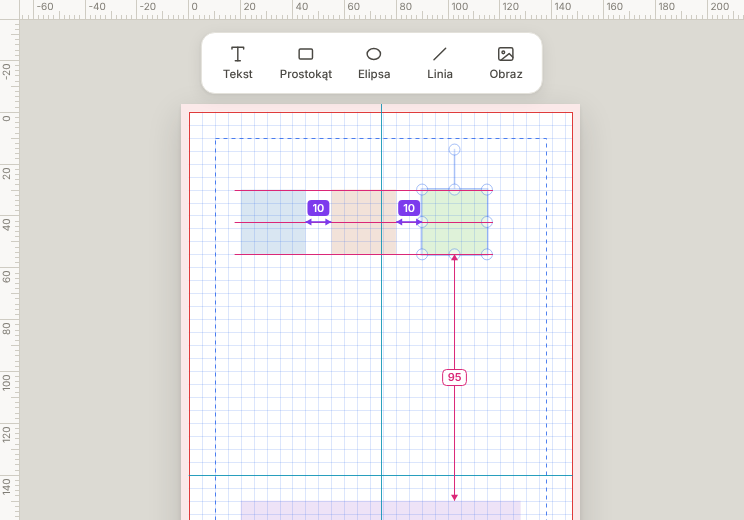
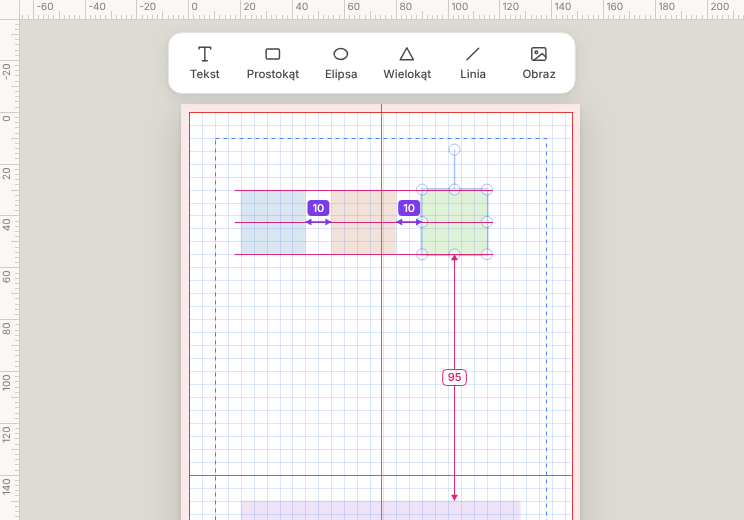
Instrukcja, zrzuty i uzasadnienie po etapie zastrzeżeń
Claude-Session: https://claude.ai/code/session_01RaMJ2Ntz7GzbyxDWHScWWA

Changed region(s): [[0.2164, 0.0615, 0.7728, 0.1846]]

diff --git a/js/instrukcja.js b/js/instrukcja.js
@@ -107,10 +107,11 @@ export const ROZDZIALY = [
     podpis: 'Zaznaczony tekst z uchwytami.',
     punkty: [
       '<b>Tekst</b> – kliknij dwa razy, aby pisać bezpośrednio na stronie, albo wpisz treść w polu <b>Treść</b> po prawej.',
-      '<b>Prostokąt, Elipsa, Linia</b> – kształty do ramek, tła i podziałów.',
+      '<b>Prostokąt, Elipsa, Wielokąt, Linia</b> – kształty do ramek, tła i podziałów. Wielokąt zaczyna jako trójkąt; liczbę boków zmienisz we właściwościach, tam też zrobisz z niego gwiazdę.',
+      'Kształt może mieć <b>przejście kolorów</b> (gradient) zamiast jednego koloru, a każdy element – <b>cień</b> z przesunięciem i rozmyciem w mm.',
       '<b>Obraz</b> – zdjęcie lub grafika z dysku. Możesz też przeciągnąć plik na stronę.',
       'Przeciągnij element, aby go przesunąć. Kółka w rogach zmieniają rozmiar, kółko nad elementem go obraca.',
-      'Przy krawędziach, marginesach i środku strony element „przykleja się” – pokazuje to różowa linia.',
+      'Przy krawędziach, marginesach, środku strony i przy innych elementach element „przykleja się” – pokazuje to różowa linia (więcej w rozdziale <b>Odległości i równe odstępy</b>).',
     ],
   },
   {
@@ -138,7 +139,8 @@ export const ROZDZIALY = [
       '<b>Kolejność</b> przenosi element nad lub pod inne.',
       '<b>Zablokuj położenie i rozmiar</b> chroni element przed przypadkowym przesunięciem.',
       'Ikony nad panelem: <b>kopiuj do schowka</b>, duplikuj, usuń. Skopiowany element wkleisz na innej stronie przyciskiem <b>Wklej</b> we właściwościach strony (albo <kbd>Ctrl</kbd>+<kbd>V</kbd>) – trafi w to samo miejsce.',
-      '<b>Obraz</b>: przycięcie z każdej strony, obrys, odbicie i informacja o rozdzielczości (do druku 300 dpi).',
+      '<b>Obraz</b>: kliknij go dwa razy (albo <b>Kadruj przeciąganiem</b>), żeby wybrać widoczny fragment ramką – <kbd>Enter</kbd> zatwierdza, <kbd>Esc</kbd> anuluje. Do tego przycięcie liczbami, obrys, odbicie i informacja o rozdzielczości (do druku 300 dpi).',
+      'Tytuły części panelu (np. <b>Cień</b>, <b>Ramka tekstu</b>) zwijają je i rozwijają. Zwinięte zostają zwinięte przy kolejnych elementach.',
     ],
   },
   {
@@ -148,7 +150,9 @@ export const ROZDZIALY = [
     podpis: 'Menu strony.',
     punkty: [
       '<b>+ Strona</b> na dole panelu wstawia pustą stronę za bieżącą, w tej samej sekcji.',
-      'Przycisk <b>⋯</b> na miniaturze: zmiana nazwy, duplikowanie, przesuwanie (w obrębie sekcji), usuwanie.',
+      'Przycisk <b>⋯</b> na miniaturze: zmiana nazwy, duplikowanie, przesuwanie, usuwanie.',
+      'Kolejność zmienisz też <b>przeciągając miniaturę</b> myszą; upuszczona w innej sekcji strona przechodzi do niej.',
+      'Usunięcie albo przesunięcie strony cofniesz przyciskiem <b>Cofnij</b> w komunikacie na dole ekranu albo <kbd>Ctrl</kbd>+<kbd>Z</kbd> – dopóki nie zmienisz czegoś na stronie.',
       'Gdy nic nie jest zaznaczone, panel z prawej pokazuje ustawienia strony: nazwę, sekcję, tło i wzorce.',
     ],
   },
@@ -260,6 +264,7 @@ export const ROZDZIALY = [
     podpis: 'Podgląd: rozkładówki obok siebie, z numerami stron z wzorca.',
     punkty: [
       'Otwórz go przyciskiem <b>Podgląd</b> na górnym pasku edytora albo z menu <b>⋯</b> projektu na liście.',
+      '<b>Prezentacja</b> pokazuje jedną stronę albo rozkładówkę naraz na całym ekranie. Strzałki i spacja przewracają strony, <kbd>Esc</kbd> zamyka. Działa także w podglądzie otwartym z linku.',
       'Podgląd pokazuje projekt po powieleniu: każdą stronę serii tyle razy, ile wynika z danych, z jej numerem i podpisem „3 z 31”.',
       'Strony idą po kolei, rozkładówki stoją obok siebie. Przyciski <b>−</b> i <b>+</b> zmieniają powiększenie, kliknięcie liczby dopasowuje do okna.',
       'Kliknięcie strony otwiera ją w edytorze. <b>Edytor</b> albo <kbd>Esc</kbd> wraca do edycji.',
@@ -273,7 +278,7 @@ export const ROZDZIALY = [
     punkty: [
       'W podglądzie kliknij <b>Udostępnij</b>, potem <b>Utwórz link</b>. Aplikacja przygotuje obrazy wszystkich stron – przy dużym projekcie chwilę to potrwa.',
       'Skopiuj link i wyślij go. Osoba z linkiem widzi strony tak jak w podglądzie; nie może nic zmienić i nie ma dostępu do reszty Twoich projektów.',
-      'Link pokazuje projekt <b>w stanie z chwili udostępnienia</b>. Po zmianach okno powie, że link jest nieaktualny – kliknij <b>Aktualizuj</b>. Adres zostaje ten sam.',
+      'Link pokazuje projekt <b>w stanie z chwili udostępnienia</b>. Po zmianach okno powie, że link jest nieaktualny – kliknij <b>Aktualizuj</b>. Adres zostaje ten sam, a wysyłane są tylko strony, które się zmieniły.',
       '<b>Wyłącz link</b> usuwa udostępnione strony; stary adres przestaje działać.',
       'Link jest długi i losowy, więc nie da się go zgadnąć – ale każdy, kto go dostanie, może go przekazać dalej.',
     ],

diff --git a/docs/UZASADNIENIE.md b/docs/UZASADNIENIE.md
@@ -40,8 +40,9 @@ Robi to integracja Supabase z GitHubem (Project Settings → Integrations → Gi
 ### A3. Wszystko w milimetrach ✅
 
 ### A4. Testy w repozytorium ✅
-**Co jest.** `tests/` – 40 testów przeglądarkowych (Playwright + `node --test`): edytor, dotyk, konto, pliki, sekcje, wzorce, rozkładówki, tekst, narzędzia, podgląd, udostępnianie, konflikt zapisu, siatka i odległości, skróty, prowadnice, warstwy, tabele, pola, serie. Supabase zastępuje atrapa w `tests/pomoc.cjs`, więc testy nie dotykają Twojej bazy. Uruchamiają się w GitHub Actions przy każdym pushu (workflow „Testy”).
-**Słabe.** Atrapa udaje Supabase – prawdziwej bazy, reguł RLS i poczty testy nie sprawdzają. Na prawdziwym tablecie nikt tego jeszcze nie przeklikał.
+**Co jest.** `tests/` – 47 testów przeglądarkowych (Playwright + `node --test`): edytor, dotyk, konto, pliki, sekcje, wzorce, rozkładówki, tekst, narzędzia, podgląd, udostępnianie, konflikt zapisu, siatka i odległości, skróty, prowadnice, warstwy, tabele, pola, serie. Supabase zastępuje atrapa w `tests/pomoc.cjs`, więc testy nie dotykają Twojej bazy. Uruchamiają się w GitHub Actions przy każdym pushu (workflow „Testy”).
+**Nowe.** `scripts/proba-na-zywo.cjs` (`npm run proba`) przechodzi opublikowaną aplikację na prawdziwej bazie kontem testowym, które na końcu usuwa: rejestracja, zapis z obrazem, drugie urządzenie, udostępnianie, usunięcie konta.
+**Słabe.** Zwykłe testy używają atrapy Supabase; próbę na prawdziwej bazie trzeba uruchomić ręcznie. Na prawdziwym tablecie nikt tego jeszcze nie przeklikał.
 
 ---
 
@@ -83,14 +84,14 @@ Doszedł wybór układu: pojedyncze strony albo rozkładówki. Nowy projekt dost
 ### C3. Adresy podstron ✅
 `#/projekty`, `#/konto`, `#/p/<id>/s/<strona>`, `#/p/<id>/w/<wzorzec>`, `#/p/<id>/podglad`.
 
-### C4. Podgląd bez edycji ✅ / ⚠
-**Co jest.** Wszystkie strony po kolei jak po przycięciu, rozkładówki obok siebie, powiększanie, kliknięcie strony otwiera ją w edytorze. Strony rysują się dopiero, gdy są widoczne.
-**Słabe.** Nie ma trybu pełnoekranowego z przewracaniem stron.
+### C4. Podgląd bez edycji ✅
+**Co jest.** Wszystkie strony po kolei jak po przycięciu (z powieleniami serii), rozkładówki obok siebie, pojedyncze strony w rzędach, powiększanie, kliknięcie strony otwiera ją w edytorze. Strony rysują się dopiero, gdy są widoczne. **Nowe:** tryb prezentacji – jedna strona albo rozkładówka naraz na całym ekranie, przewracana strzałkami; działa też w podglądzie z linku.
 
 ### C5. Udostępnianie podglądu linkiem ✅ / ⚠
 **Co jest.** „Udostępnij” w podglądzie tworzy link `#/u/<konto>/<projekt>/<losowy kod>`. Aplikacja rysuje wszystkie strony do obrazów JPEG i wysyła je z małym plikiem opisu do publicznego folderu w Supabase. Osoba z linkiem widzi ten sam widok co podgląd, bez logowania. Link można zaktualizować (adres zostaje) albo wyłączyć (pliki znikają).
 **Dlaczego migawka z obrazów, a nie „żywy” projekt.** Osoba z linkiem dostaje tylko obrazy stron – nie dane projektu, nie zdjęcia w oryginale, nie dostęp do bazy. Nie trzeba otwierać bazy dla niezalogowanych ani ładować edytora i czcionek u oglądającego. Projekt w trakcie pracy nie „przecieka” do klienta, dopóki nie klikniesz Aktualizuj.
-**Słabe.** Trzeba pamiętać o aktualizacji (okno podpowiada, gdy link jest nieaktualny). Publikacja wysyła wszystkie strony od nowa – przy kilkuset stronach potrwa i zajmie kilkadziesiąt MB. Nie ma hasła do linku ani daty ważności. Wymaga bucketu `podglady` z migracji (punkt 0.1).
+**Poprawione.** Aktualizacja wysyła tylko strony, których obraz się zmienił (skróty obrazów są zapisane w opisie podglądu).
+**Słabe.** Trzeba pamiętać o aktualizacji (okno podpowiada, gdy link jest nieaktualny). Przy aktualizacji aplikacja i tak rysuje wszystkie strony, żeby sprawdzić, które się zmieniły. Nie ma hasła do linku ani daty ważności – pliki leżą w publicznym folderze, więc wymagałoby to osobnej funkcji po stronie serwera.
 
 ---
 
@@ -133,27 +134,33 @@ Wyrównanie do marginesów (jeden element) lub do siebie (kilka), równe odstęp
 **Co jest.** Zakładka z listą elementów strony od wierzchu: zaznaczanie, kolejność przeciąganiem, ukrywanie, blokada, własne nazwy.
 **Słabe.** Na ekranie dotykowym kolejności nie zmienia się przeciąganiem (zostają przyciski kolejności we właściwościach). Elementy wzorców nie są na liście.
 
-### D5. Obrazy ⚠
-Bez zmian: pełna rozdzielczość w pamięci, przycinanie liczbami. Do zrobienia przed pracą z dużymi zdjęciami: pomniejszony podgląd i przycinanie przeciąganiem.
+### D5. Obrazy ✅ / ⚠
+**Co jest.** Obraz jest zasobem projektu; strona na niego wskazuje. **Nowe:** kadrowanie przeciąganiem (podwójne kliknięcie obrazu: cały obraz z ramką, reszta przyciemniona), obok przycięcia liczbami.
+**Słabe.** Obrazy nadal są trzymane w pamięci w pełnej rozdzielczości – pomniejszone kopie robocze zrobię razem z eksportem PDF, bo dopiero tam potrzebny jest podział na „do ekranu” i „do druku”. Obróconego albo odbitego obrazu nie kadruje się ramką, tylko liczbami.
 
-### D6. Cofanie ⚠
-Bez zmian: 60 kroków w obrębie bieżącej strony; nie cofa operacji na stronach, sekcjach i stylach.
+### D6. Cofanie ✅ / ⚠
+**Co jest.** 60 kroków w obrębie otwartej strony albo rozkładówki. **Nowe:** usunięcie strony, sekcji albo wzorca oraz przesunięcie strony da się cofnąć przyciskiem w komunikacie albo Ctrl+Z.
+**Dlaczego tak.** Przed taką operacją aplikacja zapamiętuje cały projekt (bez obrazów). Cofnięcie jest możliwe do pierwszej następnej zmiany na stronie – wtedy zapamiętany stan przestałby pasować i cofnięcie zabrałoby tę zmianę ze sobą. Wolę jasną regułę „od razu po operacji” niż ciche gubienie pracy.
+**Słabe.** To nie jest jedna wspólna historia całego projektu: zmiany stylów, serii i tabel nie cofają się, a historia strony zaczyna się od nowa po przejściu na inną.
 
 ### D7. Czcionki ⚠
 Bez zmian: 8 czcionek OFL z Google Fonts. Przed eksportem PDF trzeba przenieść pliki czcionek do repozytorium.
 
-### D8. Czego nadal nie ma z programów do składu ❌
-Kształty dowolne, gradienty, cienie, zwijane sekcje panelu właściwości (na telefonie panel jest długi). Panel warstw i linijki są już zrobione (D11, D14).
+### D8. Kształty, gradienty, cienie ✅ / ⚠
+**Co jest.** Wielokąt foremny i gwiazda (liczba boków we właściwościach), wypełnienie przejściem dwóch kolorów w trzech kierunkach, cień z przesunięciem i rozmyciem w mm. Panel warstw i linijki są w D11 i D14, zwijane sekcje panelu w D9.
+**Słabe.** Nie ma kształtów rysowanych odręcznie (krzywe, pióro) ani gradientów kołowych i wielokolorowych.
 
 ### D9. Układ ekranu i panel właściwości ✅ / ⚠
 **Co jest.** Z lewej lista stron i wzorców, w środku płótno z pływającym paskiem narzędzi, z prawej jeden panel: właściwości zaznaczonego elementu albo strony.
 **Dlaczego tak.** Układ znany z programów do składu; jeden panel zmieniający treść zajmuje mniej miejsca niż kilka okienek.
-**Słabe.** Panel jest długi i nie ma zwijanych części.
+**Poprawione.** Części panelu zwijają się kliknięciem w tytuł i zostają zwinięte (wybór pamięta urządzenie).
+**Słabe.** Przy tekście panel nadal ma dużo części; na telefonie trzeba je przewijać.
 
 ### D10. Dotyk i telefon ⚠
 **Co jest.** Jeden palec zaznacza i przesuwa elementy, dwa – widok. Na telefonie panele wysuwają się z dołu jako arkusze.
 **Poprawione 2026-11-10 po Twoim zrzucie z telefonu.** Górny pasek uciekał poza ekran, a spod dolnego menu wystawał schowany arkusz. Ekran aplikacji jest teraz przypięty do okna (nie liczy wysokości w jednostkach okna, które na telefonie zmieniają się z paskiem adresu), dokument nie daje się przewinąć, zamknięte arkusze zjeżdżają całe poniżej ekranu, a arkusz właściwości ma stałą wysokość, żeby nie skakał przy zmianie zaznaczenia. Strona nie rysuje się już pod paskiem systemowym.
-**Słabe.** Błędu nie umiałem odtworzyć w przeglądarce testowej – poprawka usuwa jego możliwe przyczyny, ale potwierdzić ją może tylko próba na Twoim telefonie. Rozkładówka na telefonie jest mała.
+**Nowe.** „W rozkładówkach pokazuj jedną stronę” (menu z kratką): na wąskim ekranie włączone domyślnie, więc na telefonie edytujesz jedną stronę rozkładówki naraz.
+**Słabe.** Błędu nie umiałem odtworzyć w przeglądarce testowej – poprawka usuwa jego możliwe przyczyny, ale potwierdzić ją może tylko próba na Twoim telefonie. W widoku jednej strony nie widać elementów sąsiedniej strony, które przechodzą przez grzbiet (są na miniaturze i w podglądzie).
 
 ---
 
@@ -161,14 +168,14 @@ Kształty dowolne, gradienty, cienie, zwijane sekcje panelu właściwości (na t
 
 ### E1. Sekcje ✅
 Własny format, spad, cztery marginesy, układ, wzorce domyślne i **numeracja** (dalszy ciąg, od numeru, bez numerów).
-**Nie ma.** Automatycznego liczenia szerokości grzbietu okładki z liczby kartek.
+**Nowe.** Kalkulator okładki w ustawieniach sekcji: z szerokości strony środka, liczby stron i grubości kartki liczy grzbiet i szerokość okładki (tył + grzbiet + przód) i wpisuje ją jednym kliknięciem. Grubość kartki trzeba wziąć od drukarni.
 
 ### E2. Wzorce połączone z motywami ✅
 **Co jest.** Strona może mieć kilka wzorców naraz; każdy element wzorca leży pod albo nad treścią; wzorzec może odbijać się lustrzanie na lewych stronach (numer strony zawsze przy zewnętrznej krawędzi). Pojęcie „motyw” z planu zniknęło – to są wzorce.
-**Słabe.** Kolejność wzorców wynika z kolejności na liście wzorców (nie da się jej zmienić przeciąganiem). Odbicie lustrzane grupy przenosi całą grupę, ale nie odbija układu w jej środku.
+**Poprawione.** Kolejność wzorców zmienia się z menu wzorca (wyżej / niżej). Odbicie lustrzane odbija także układ wewnątrz grupy.
 
 ### E4. Lista stron ✅
-Miniatury pogrupowane w sekcje, z numerem strony; w rozkładówkach strony stoją parami. Kolejność zmienia się z menu strony, nie przeciąganiem.
+Miniatury pogrupowane w sekcje, z numerem strony i znaczkiem serii; w rozkładówkach strony stoją parami. Kolejność zmienia się z menu albo przeciąganiem miniatury myszą (także do innej sekcji). Na ekranie dotykowym zostaje menu.
 
 ### E3. Jedno składanie strony ✅
 `zlozenie.js` składa tło, wzorce i treść dla edytora, miniatur i podglądu – ten sam kod posłuży eksportowi PDF, więc wszędzie wygląda to identycznie.
@@ -209,7 +216,8 @@ Bez zmian; nadal nie sprawdzone na prawdziwym urządzeniu. Ikona to moja robocza
 ### F3. Ciemny motyw ✅ / ⚠
 **Co jest.** Trzy możliwości: jak w systemie (domyślnie), jasny, ciemny. Wybór zapamiętany na urządzeniu, ustawiany przed pierwszym rysowaniem strony (bez mignięcia). Szybki przełącznik na logowaniu, liście projektów i w menu edytora; pełny wybór w ustawieniach konta.
 **Dlaczego tak.** Wszystkie kolory interfejsu są zmiennymi, więc ciemny motyw to drugi zestaw wartości, a nie osobne style. Strony publikacji zostają białe – projektujesz na papierze, który będzie biały.
-**Słabe.** Wybór jest per urządzenie, nie per konto. Zrzuty w instrukcji są w jasnym motywie. Wiadomości e-mail są zawsze jasne.
+**Poprawione.** Wybór motywu zapisuje się na koncie i obowiązuje na każdym urządzeniu.
+**Słabe.** Zrzuty w instrukcji są w jasnym motywie. Wiadomości e-mail są zawsze jasne.
 
 ### F4. Instrukcja ✅
 27 rozdziałów ze zrzutami generowanymi skryptem (`npm run zrzuty`), bez ramek „Dlaczego tak?” – uzasadnienia są w tym dokumencie.
@@ -219,7 +227,7 @@ Bez zmian; nadal nie sprawdzone na prawdziwym urządzeniu. Ikona to moja robocza
 ## H. Co proponuję dalej
 
 1. **Próba na tablecie i telefonie** – gesty, klawiatura ekranowa, instalacja, wysuwane panele.
-2. **Reszta zastrzeżeń** (decyzja #35): zwijane sekcje panelu, cofanie w całym projekcie, przeciąganie stron na liście, kadrowanie obrazu przeciąganiem, tryb prezentacji w podglądzie, podział `aplikacja.js`.
+2. **Zastrzeżenia, które zostały** (decyzja #35): podział `aplikacja.js` (A1), przejście na Fabric 6 (A2), zapis tylko zmienionych stron (B4), jedna historia cofania dla całego projektu (D6), kolumny, tabele i przelewanie tekstu (D1), przyciąganie przy zmianie rozmiaru (D11).
 3. **Eksport PDF**; przed nim pliki czcionek w repozytorium i pomniejszone obrazy do pracy na ekranie.
 4. **Pule wartości i szablon danych** z planu (5.1, 5.2).
 5. **Poczta**, gdy będzie domena (decyzja #34).

diff --git a/docs/DECYZJE.md b/docs/DECYZJE.md
@@ -40,7 +40,7 @@ Twoje uwagi z rozmów i to, co z nich wynikło. Najnowsze na dole. Przy każdej 
 | 32 | 2026-11-10 | „Po co tokeny? Chcę prościej, trzy kliknięcia w panelu. Ma być uniwersalne, nie dla jednej rozmowy czy jednego agenta.” | Żadnych tokenów. Bazę i ustawienia logowania wdraża integracja Supabase z GitHubem po pushu na `main`; wymaga jednorazowego włączenia „Deploy to production” (Working directory `.`). Ustawienia logowania i szablony są w `supabase/config.toml` z blokiem `[remotes.production]`, żeby integracja je przenosiła. | zrobione: opcja włączona, baza i ustawienia logowania wdrożone, całość sprawdzona na prawdziwej bazie kontem testowym. Własne szablony e-maili wyłączone – darmowy plan bez własnej poczty odrzucał przez nie całe wdrożenie |
 | 33 | 2026-11-10 | (Bez odpowiedzi na pytanie o potwierdzanie e-mailem – przyjęta moja propozycja.) | Rejestracja bez linku potwierdzającego: wbudowana poczta Supabase dostarcza wiadomości tylko właścicielom projektu. Do zmiany po podpięciu własnego serwera poczty. | obowiązuje, możesz odwrócić |
 | 34 | 2026-11-10 | „Hooka i szablony można skonfigurować później, jeśli ogarnę domenę. Już mogę się logować i jest OK.” | Poczta odłożona do czasu zakupu domeny: bez własnego serwera poczty, bez własnych szablonów, rejestracja bez potwierdzania e-mailem. Logowanie na prawdziwej bazie potwierdzone przez Ciebie. | odłożone do domeny |
-| 35 | 2026-11-10 | „Wszystko, do czego masz zastrzeżenia, trzeba poprawić, oprócz tego, co ustaliliśmy na później.” | Poprawiam po kolei wpisy „z zastrzeżeniami” i „brak” z uzasadnienia. Odłożone zostają: poczta i szablony wiadomości (#34) oraz próba na prawdziwym tablecie (nie mogę jej zrobić sam). | w toku |
+| 35 | 2026-11-10 | „Wszystko, do czego masz zastrzeżenia, trzeba poprawić, oprócz tego, co ustaliliśmy na później.” | Poprawiam po kolei wpisy „z zastrzeżeniami” i „brak” z uzasadnienia. Odłożone zostają: poczta i szablony wiadomości (#34) oraz próba na prawdziwym tablecie (nie mogę jej zrobić sam). | **w dużej części zrobione** – lista w UZASADNIENIE.md; zostały: podział `aplikacja.js`, Fabric 6, zapis tylko zmienionych stron, jedna historia cofania, kolumny i tabele w tekście, pomniejszone obrazy i czcionki w repozytorium (te dwa razem z PDF) |
 | 36 | 2026-11-10 | „Chcę mieć tryb siatki i przypinanie elementów do siatki.” | Siatka o zadanym kroku w mm, widoczna na płótnie, z przyciąganiem. Ustawienia siatki należą do projektu. Do tego linijki i własne prowadnice. | zrobione |
 | 37 | 2026-11-10 | „Wszystkie skróty klawiszowe działające w podobnych aplikacjach.” | Zestaw skrótów jak w programach Adobe i podobnych (edycja, kolejność, grupy, tekst, widok, strony), z listą w instrukcji (klawisz „?”). | zrobione |
 | 38 | 2026-11-10 | „Jak w Adobe strzałeczki z odległościami do najbliższych elementów i podobne odległości też zaznaczane w ten sposób.” | Przy przesuwaniu: linie wyrównania do innych elementów, strzałki z odległością w mm do najbliższych sąsiadów, oznaczenie i przyciąganie równych odstępów. Alt pokazuje odległości zaznaczonego elementu. | zrobione |

diff --git a/README.md b/README.md
@@ -13,10 +13,11 @@ Webowy edytor publikacji z powtarzalnymi stronami (kalendarze, planery, notesy):
 - **Rozkładówki**: obie strony na jednym płótnie, marginesy lustrzane (wewnętrzny przy grzbiecie), elementy mogą leżeć przez grzbiet.
 - **Wzorce**: wspólne elementy stron; kilka wzorców na stronę, elementy pod albo nad treścią, odbicie lustrzane na lewych stronach, zmienne `{nr}`, `{nr_w_sekcji}`, `{liczba_stron}`, `{sekcja}`, `{strona}`.
 - **Edytor** (Fabric.js 5.3.1, wszystko w mm): tekst, kształty, obrazy, grupy, panel warstw, wyrównywanie i równe odstępy, blokada, schowek między stronami, cofanie, ostrzeżenia o marginesach i spadzie.
+- **Kształty i obrazy**: wielokąty i gwiazdy, gradient, cień, kadrowanie obrazu przeciąganiem.
 - **Precyzja**: siatka z przyciąganiem, linijki i własne prowadnice, linie wyrównania do innych elementów, strzałki z odległościami i równe odstępy, ponad 50 skrótów klawiszowych.
 - **Dane**: tabele z importem CSV/Excel i lekkim edytorem, pola `{kolumna}` i pola dokumentu w tekście, serie powielające strony według wierszy, obrazy z kolumny, ramka tekstu z autodopasowaniem.
 - **Tekst**: style wspólne dla projektu, odstęp liter, podkreślenie, przekreślenie, formatowanie zaznaczonego fragmentu.
-- **Podgląd** bez edycji: cały projekt jak po przycięciu, rozkładówki obok siebie. Można go **udostępnić linkiem** osobie bez konta (obrazy stron z chwili udostępnienia).
+- **Podgląd** bez edycji: cały projekt jak po przycięciu (z powieleniami serii), rozkładówki obok siebie, tryb prezentacji na całym ekranie. Można go **udostępnić linkiem** osobie bez konta (obrazy stron z chwili udostępnienia).
 - **Zapis**: automatyczny, najpierw w przeglądarce (IndexedDB), potem na koncie; konflikt z innym urządzeniem kończy się pytaniem, którą wersję zachować.
 - **Dotyk i telefon**: jeden palec przesuwa elementy, dwa – widok; panele wysuwane z dołu.
 - **Motyw**: jasny, ciemny albo jak w systemie.
@@ -42,6 +43,7 @@ npm install && npx playwright install chromium
 npm test                                   # testy przeglądarkowe (tests/)
 python3 -m http.server 8000 &
 npm run zrzuty -- http://localhost:8000/   # odświeża img/instrukcja/*.png
+npm run proba                              # próba na prawdziwej bazie (konto testowe, na końcu usuwane)
 ```
 
 Testy używają atrapy Supabase (`tests/pomoc.cjs`) – nie łączą się z prawdziwą bazą. W GitHub Actions uruchamia je workflow „Testy”.
